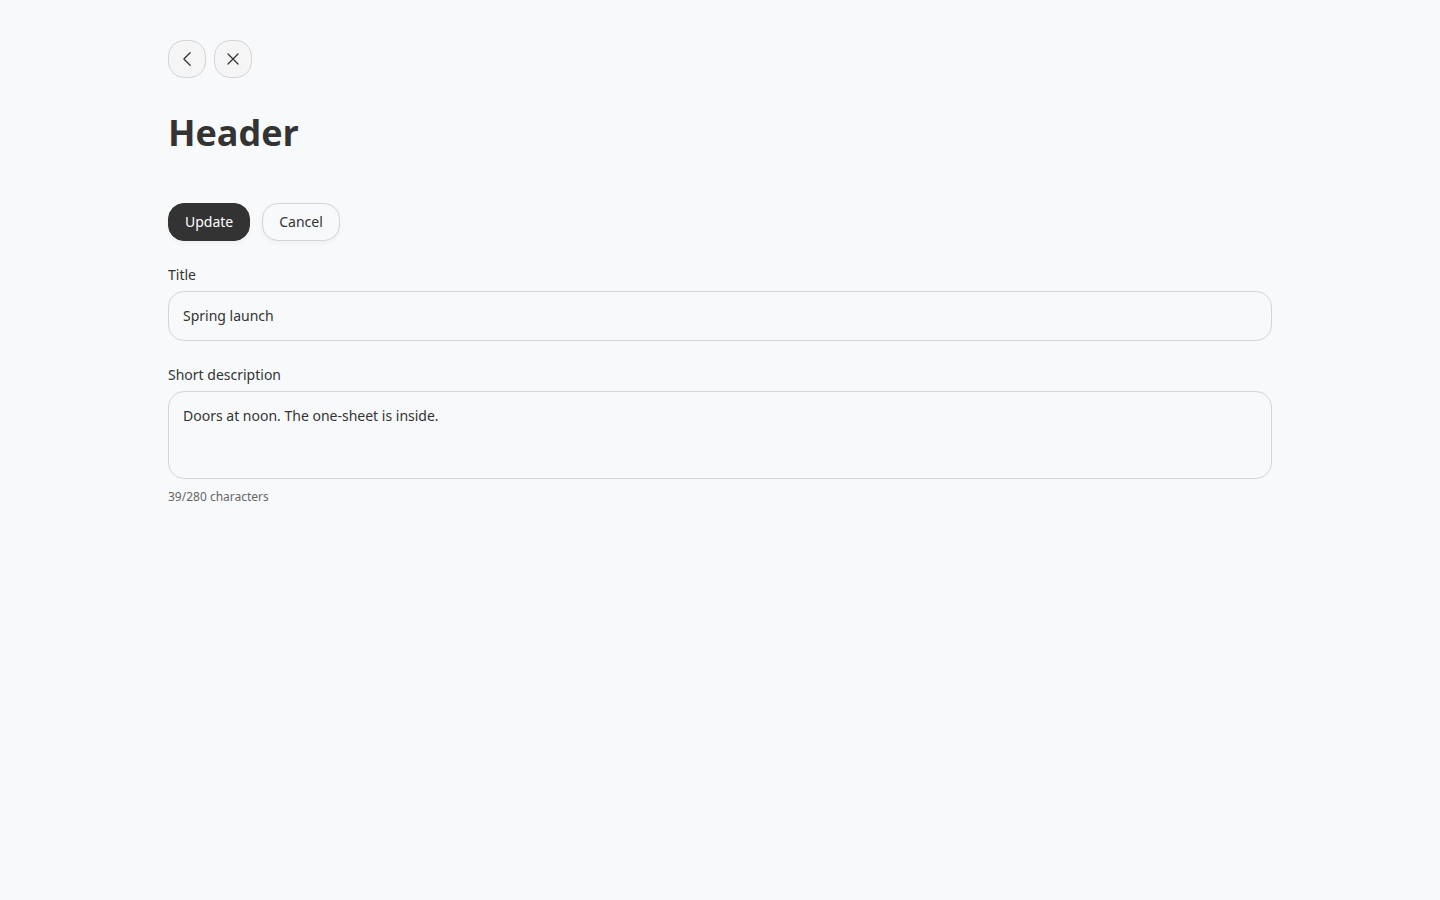
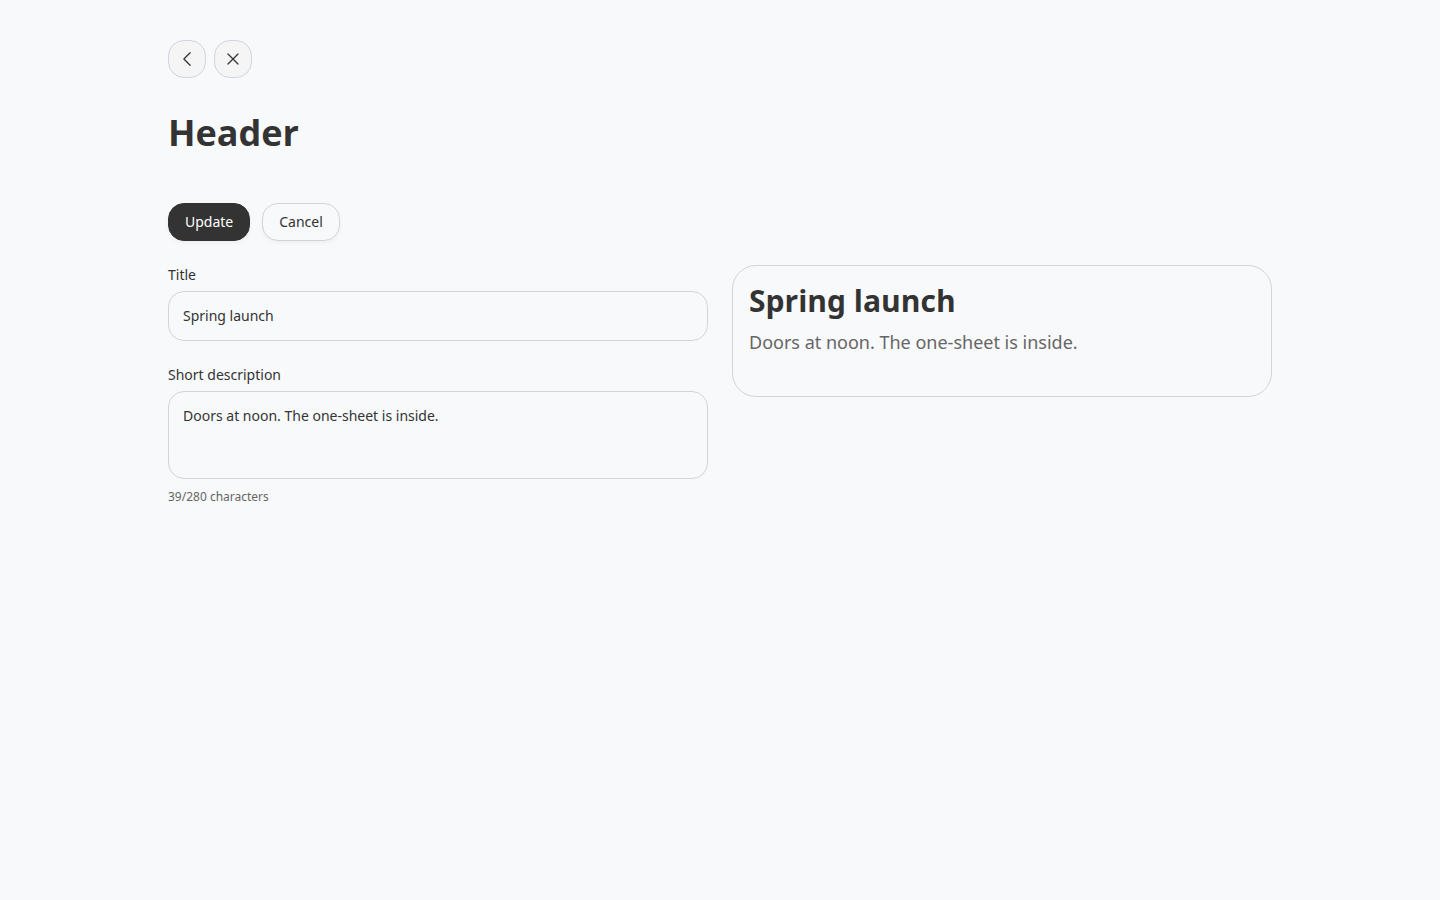
Put the header fields in the first column.
The header screen uses the same two-column grid as a section editor. Title and short description sit in column one, and column two previews them.

Changed region(s): [[0.5, 0.3111, 0.75, 0.4044]]

diff --git a/test/dummy/test/integration/press_kit_ui_test.rb b/test/dummy/test/integration/press_kit_ui_test.rb
@@ -594,8 +594,20 @@ class PressKitUiTest < ActionDispatch::IntegrationTest
     assert_operator form_html.index("Update"), :<, form_html.index('name="press_kit[title]"')
     grid_html = css_select("#presskits-header-actions ~ .grid").to_html
     assert_includes grid_html, "grid-cols-1"
-    refute_includes grid_html, "md:grid-cols-2"
-    refute_includes grid_html, "presskits-editor-preview"
+    assert_includes grid_html, "md:grid-cols-2"
+    columns = css_select("#presskits-header-actions ~ .grid > *")
+    assert_equal 2, columns.size
+    assert_includes columns.first.to_html, 'name="press_kit[title]"'
+    assert_includes columns.first.to_html, 'name="press_kit[description]"'
+    refute_includes columns.first.to_html, "presskits-header-edit-preview"
+    refute_includes columns.last.to_html, 'name="press_kit[title]"'
+    assert_includes columns.last.to_html, "presskits-header-edit-preview"
+    preview = css_select("#presskits-header-edit-preview").first
+    assert_includes preview["class"], "border-[var(--card-border-color)]"
+    assert_select "#presskits-header-edit-preview h2", text: "Spring launch"
+    assert_select "#presskits-header-edit-preview p", text: "Doors at noon."
+    refute_includes grid_html, ">Update<"
+    refute_includes grid_html, ">Cancel<"
     assert_select "button", text: "Remove", count: 0
   end
 

diff --git a/test/recording_studio_presskits_test.rb b/test/recording_studio_presskits_test.rb
@@ -363,7 +363,9 @@ class RecordingStudioPresskitsTest < Minitest::Test
     assert_includes header, "max_characters: RecordingStudioPresskits::PressKit::SHORT_DESCRIPTION_LIMIT"
     assert_includes header, 'text: "Update", style: :primary'
     assert_includes header, 'text: "Cancel", style: :default'
-    refute_includes header, "presskits-editor-preview"
+    assert_includes header, "cols: 2"
+    assert_includes header, 'id: "presskits-header-edit-preview"'
+    assert_operator header.index('name: "press_kit[title]"'), :<, header.index('id: "presskits-header-edit-preview"')
     refute_includes show, "EditButtonComponent"
     refute_includes show, "Go live"
     refute_includes show, "SectionPickerComponent"

diff --git a/README.md b/README.md
@@ -208,7 +208,7 @@ The mounted user slice uses Recording Studio's default layout (back and close). 
 - Empty index: what happened, and a way to make a kit.
 - Kit URL: `GET press_kits/:id` requires edit access and redirects to the kit editor.
 - Kit editor: the page heading is the kit name. **+ Section** (Heroicons `plus`, label Section, primary button) sits first on a row with `render_publishable_quick_actions`. The two-column grid starts under that row. Column one is one `FlatPack::Card`. **Header** is the first row. It is a `FlatPack::List::Item` with no icon and no remove, and it opens the header screen. The header is the press kit itself, so it cannot be dragged or removed. A blank description is stored as nothing. 280 characters is the limit. Creating a kit still asks only for the name. + Section stays the only primary button on this page. When there are sections, they follow in that same card as one `FlatPack::List` (`orderable: true`, `divider: true`). Header stays outside that list. Each section is a `FlatPack::List::Item`. The link text is the section type, such as **Text**, and it opens that section. The list icon slot is Heroicons `arrows-up-down`. FlatPack's `flat-pack--list-orderable` controller does the drag. This FlatPack pin's `saveOrder` checks `hasOrderablePathValue`, which is never defined, so the fetch does not run. `list:reordered` posts `recording_id` and `before_recording_id` or `after_recording_id`, and that calls `recording_studio_orderable_move!`. Remove is an icon-only trash button. It posts delete and `SectionsController#destroy` calls `recording_studio_trashable_trash!`. Column two is one `FlatPack::Card` when there is a short description or at least one section. The description comes first, then every section through `section_component_for`. A kit with neither has no preview card. No in-page Preview button. The page nav also carries the kit name. Publishable's menu still has **View** and **Preview**. Types come from `picker_types`. Text is on that list once the host registers it. No empty-state tray on edit.
-- Header screen: the page heading is **Header**. Back is **Back to kit** and returns to the kit editor. **Update** (primary) and **Cancel** (default button) sit above the fields. Title is required. Short description is optional, with a 280 character count. The page is one column and has no preview. Saving stays on this screen and uses `revise`. **+ Access** stays off.
+- Header screen: the page heading is **Header**. Back is **Back to kit** and returns to the kit editor. **Update** (primary) and **Cancel** (default button) sit above the grid. The grid is two columns, the same shape as a section editor. Column one is Title and Short description. Title is required. Short description is optional, with a 280 character count. Column two is a `FlatPack::Card` that shows that title and short description. Saving stays on this screen and uses `revise`. **+ Access** stays off.
 - Section editor: a page heading is the section type, such as **Text**. **Update** (primary) and **Cancel** (default button) sit above the grid. Cancel returns to the kit editor. The default grid is two columns. Column one is the registered editor, full width of that column, or the type label when none is registered. Column two renders that section's saved HTML inside a `FlatPack::Card`, lined up with the field. An editor class can define `preview?` and return false to drop the preview and use one full-width column. Text does that. An editor with no section form can define `section_actions`. Quotes does, so **+ Quote** (Heroicons `plus`, label Quote, primary button) and **Cancel** sit above the grid and the list stays in column one. The Text field is the FlatPack content WYSIWYG with no field label. The kit list trashes a section with the trash icon through `recording_studio_trashable_trash!`. **+ Access** stays off this page.
 - Owner preview: the same public page, on the default layout, for an authenticated owner. Back returns to the kit editor. A kit that is not live stays hidden from logged-out visitors.
 

diff --git a/test/dummy/README.md b/test/dummy/README.md
@@ -10,7 +10,7 @@ This Rails app exists to prove Recording Studio Press Kits in a real host. It is
 - Orderable, Trashable, Duplicatable, and Publishable install, migrations, and mounts
 - Recording Studio Admin 2.0 mounted under an admin root, with Accessible grants for the seeded admin
 - Authenticated `/` redirects to the press kit index on Recording Studio's default layout
-- Cards and table views of kits. The heading is **My presskits**. **Presskit** with a Heroicons plus icon is first and left. Cards vs table is icon-only Flatpack ButtonGroup. Cards show a 16/9 cover, or the muted placeholder when `cover_image_url` is absent. Cards and the table open the two-column kit editor. That editor shows the kit name as the page heading. + Section is first, as a primary button, then the publish control, on a row above the two-column grid. Column one is one card. Header is the first row and opens the header screen, where Title, Short description, Update, and Cancel live. That row has no drag handle and no remove. The header is the kit, so it cannot be removed or reordered. + Section stays the only primary button on the kit editor. When there are sections, they follow Header in that card as one FlatPack list. Each section is a list item. The link is the section type. The list is orderable and uses the divider. An arrows-up-down icon sits in the list icon slot. The drop is saved through Orderable. Remove is a trash icon and calls Trashable. An Images section stores a caption and many Attachable photos. Each photo's caption, credit, and alt text use Attachable's collection editor. The preview column is a card. There is no in-page Preview button. Publishable's menu still has View and Preview
+- Cards and table views of kits. The heading is **My presskits**. **Presskit** with a Heroicons plus icon is first and left. Cards vs table is icon-only Flatpack ButtonGroup. Cards show a 16/9 cover, or the muted placeholder when `cover_image_url` is absent. Cards and the table open the two-column kit editor. That editor shows the kit name as the page heading. + Section is first, as a primary button, then the publish control, on a row above the two-column grid. Column one is one card. Header is the first row and opens the header screen. Update and Cancel sit above a two-column grid. Title and Short description are in column one. Column two previews them. That row has no drag handle and no remove. The header is the kit, so it cannot be removed or reordered. + Section stays the only primary button on the kit editor. When there are sections, they follow Header in that card as one FlatPack list. Each section is a list item. The link is the section type. The list is orderable and uses the divider. An arrows-up-down icon sits in the list icon slot. The drop is saved through Orderable. Remove is a trash icon and calls Trashable. An Images section stores a caption and many Attachable photos. Each photo's caption, credit, and alt text use Attachable's collection editor. The preview column is a card. There is no in-page Preview button. Publishable's menu still has View and Preview
 - Logged-out public show of a live kit on the blank public layout (no page nav). A short description shows under the title when the kit has one
 - Owner preview of a kit that is not live, on the default layout. **+ Access** is on the kit editor only
 - + Section offers Text. The Text field is the FlatPack content editor and fills the section page. That editor hides the preview. The kit editor lists the section as Text inside a card, and the preview card renders the saved HTML. The public page renders it too. Dummy FakeBlock stays test-only and stays off the add dropdown

diff --git a/MIGRATION_NOTES.md b/MIGRATION_NOTES.md
@@ -6,7 +6,7 @@ The kit header is the press kit: required `title`, optional `description`. It is
 
 Run `bin/rails generate recording_studio_presskits:migrations`, then `bin/rails db:migrate`. `recording_studio_press_kits` gains a nullable `description` text column. Existing kits keep their title and start with no description. Creating a kit still asks only for the name.
 
-The kit editor lists Header with the sections. That row opens `GET press_kits/:press_kit_id/header/edit`. `PATCH press_kits/:press_kit_id/header` revises `title` and `description`. `PATCH press_kits/:id` is no longer a route. A blank description is stored as nothing. 280 characters is the limit. The row is not orderable and not trashable.
+The kit editor lists Header with the sections. That row opens `GET press_kits/:press_kit_id/header/edit`, a two-column screen: the fields, then a preview. `PATCH press_kits/:press_kit_id/header` revises `title` and `description`. `PATCH press_kits/:id` is no longer a route. A blank description is stored as nothing. 280 characters is the limit. The row is not orderable and not trashable.
 
 Bump Accessible to `~> 0.11` (dummy tag `v0.11.1`). Run `bin/rails generate recording_studio_accessible:migrations`, then `bin/rails db:migrate`. Access `role` is a string (`view`, `edit`, `admin`). 0.8.0 adds `depends_on_recording_id`. 0.10.0 adds access invitations. Grant through `bootstrap_owner_access!` / `grant_access`; `RecordingStudio::Access` is readonly.
 

diff --git a/CHANGELOG.md b/CHANGELOG.md
@@ -12,7 +12,7 @@ and this project adheres to [Semantic Versioning](https://semver.org/spec/v2.0.0
 Kit header.
 
 ### Added
-- A press kit has an optional short description, 280 characters at most. A blank one is stored as nothing. The kit editor lists Header with the sections. That row opens a screen for the title and short description. The row cannot be removed or reordered. The preview, the public page, and owner preview show the description under the title when it is present.
+- A press kit has an optional short description, 280 characters at most. A blank one is stored as nothing. The kit editor lists Header with the sections. That row opens a screen for the title and short description. The screen is a two-column grid: the fields, then a preview. The row cannot be removed or reordered. The kit preview, the public page, and owner preview show the description under the title when it is present.
 
 ### Changed
 - Renaming a kit moves from `PATCH press_kits/:id` to `PATCH press_kits/:press_kit_id/header`, which also saves the short description.
